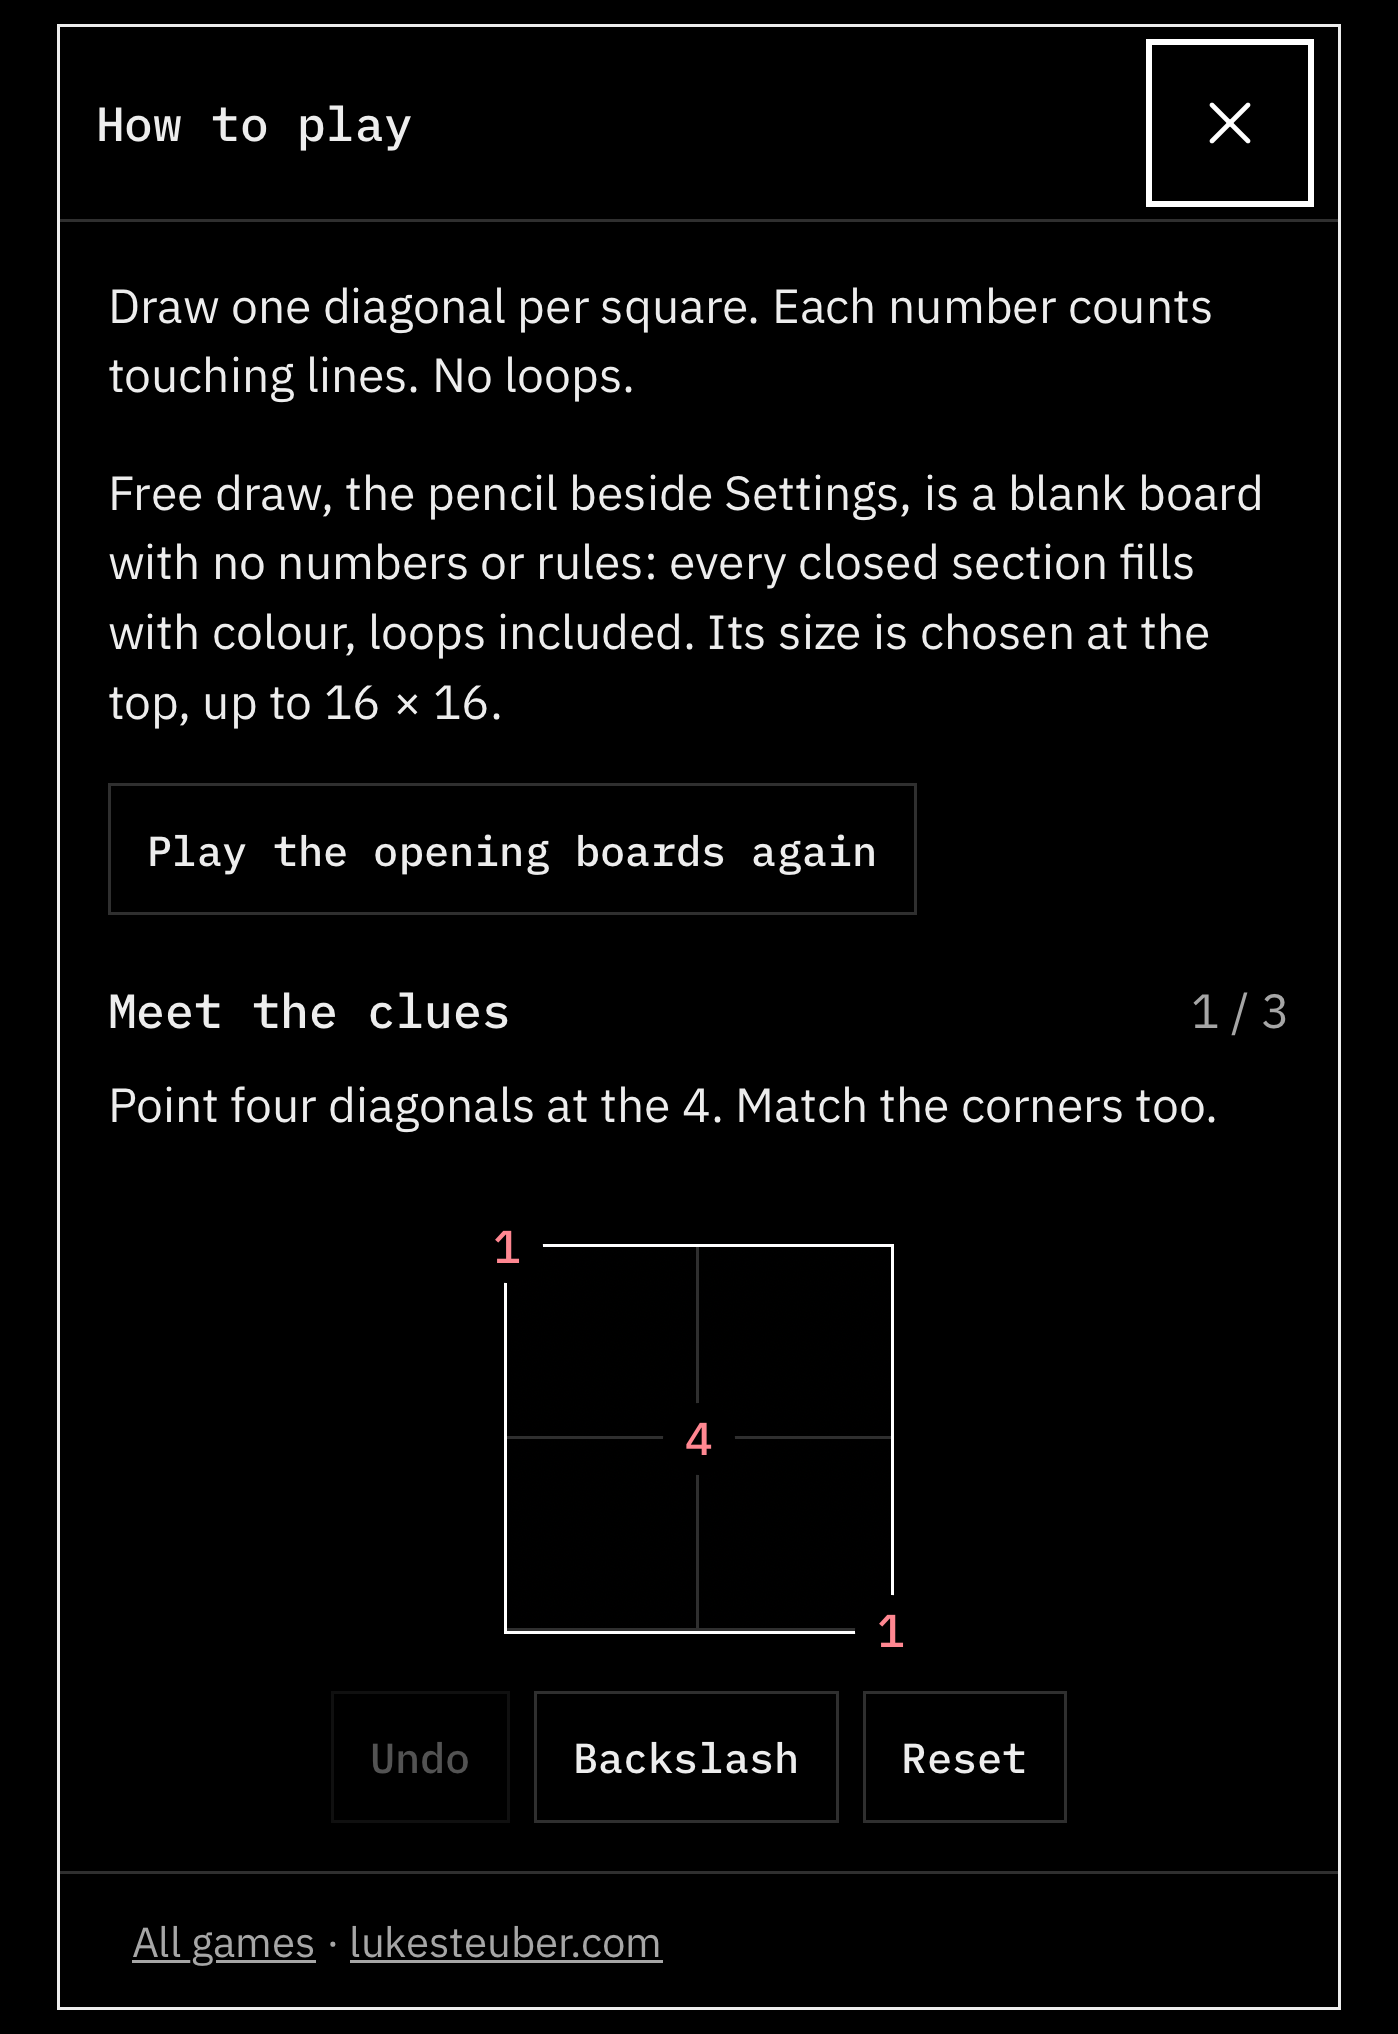
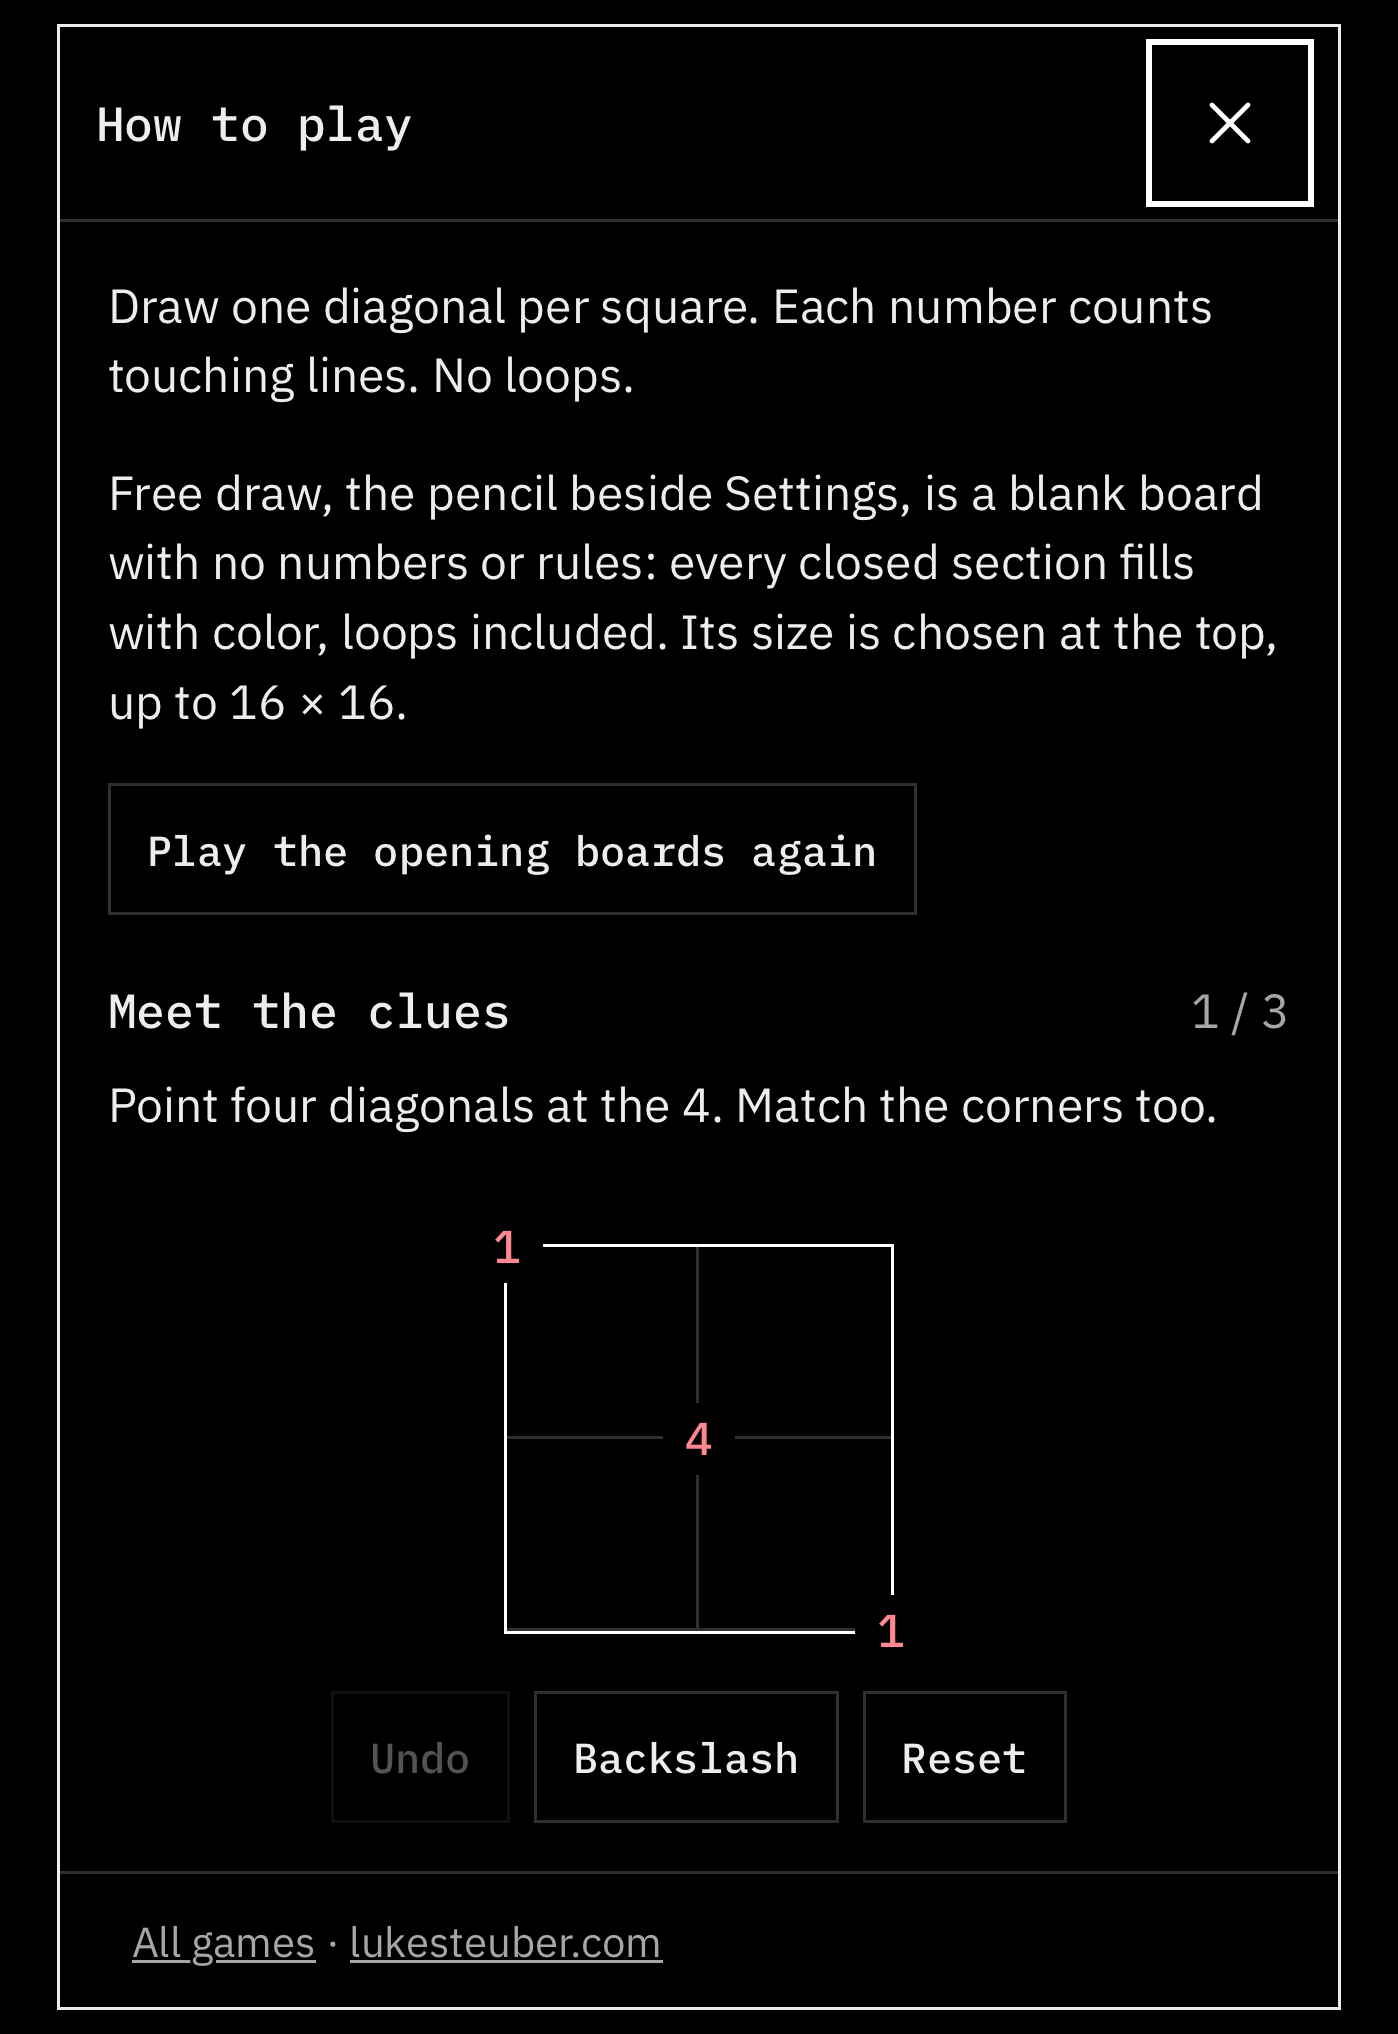
Privacy page live; How to play screenshots retaken with American spelling
smoke.sh now fails on "colour" in the payload instead of warning.

Changed region(s): [[0.4306, 0.2788, 0.892, 0.3407], [0.0923, 0.3097, 0.3999, 0.3717]]

diff --git a/app/app-store/privacy.html b/app/app-store/privacy.html
@@ -5,7 +5,7 @@
 <meta name="viewport" content="width=device-width, initial-scale=1">
 <meta name="color-scheme" content="light dark">
 <title>Slant Privacy Policy</title>
-<!-- For the iPhone, iPad and Android apps. Proposed home: https://lukesteuber.com/games/slant/privacy.html (not published yet). It loads no analytics script. -->
+<!-- Served at https://lukesteuber.com/games/slant/privacy.html (source: game-riffs slant/privacy.html) for the iPhone, iPad and Android apps. It loads no analytics script. -->
 <style>
   body { max-width: 680px; margin: 0 auto; padding: 48px 22px 80px; font: 16px/1.6 system-ui, -apple-system, sans-serif; background: #fff; color: #111; }
   h1 { font-size: 2rem; line-height: 1.15; margin-bottom: .25em; }

diff --git a/app/docs/RELEASE.md b/app/docs/RELEASE.md
@@ -21,13 +21,11 @@ signing steps run from Luke's own Terminal.
 
 1. ~~Luke confirms the id.~~ Done 2026-11-14 ("Yes, use it"). The sign
    script's PROPOSED gate now passes.
-2. **Privacy page.** `app-store/privacy.html` has to be live before either
-   store accepts the listing. Proposed home:
-   `https://lukesteuber.com/games/slant/privacy.html` (add it to game-riffs
-   `slant/`, or copy it onto Drummer). Luke's OK first.
-3. **Spelling fix.** game-riffs PR 161 changes the game's three "colour" strings
-   to "color". After it merges: `tools/sync-from-game-riffs.sh <merge commit>`,
-   re-export, retake the How to play screenshots (`04-*`).
+2. ~~Privacy page.~~ Live at `https://lukesteuber.com/games/slant/privacy.html`
+   since 2026-11-14 (game-riffs PR 164; web release `slant-privacy-ff6f321` on
+   Drummer, with `rollback.sh` beside it).
+3. ~~Spelling fix.~~ game-riffs PR 161 merged; the app is synced at ff6f321 and
+   the How to play screenshots were retaken.
 4. Optional: tell the Minimal Primitives release session which game commit
    this app ships, so the two stay in step.
 

diff --git a/app/app-store/PRIVACY.md b/app/app-store/PRIVACY.md
@@ -37,7 +37,7 @@ What to enter in App Store Connect and the Google Play Console for Slant
 |---|---|
 | App Privacy: data collection | **Data Not Collected** |
 | Tracking | No |
-| Privacy policy URL | Proposed `https://lukesteuber.com/games/slant/privacy.html`. **Not live yet**: the page is `app-store/privacy.html`; publishing it (into game-riffs `slant/` or straight onto Drummer) waits for Luke's OK |
+| Privacy policy URL | `https://lukesteuber.com/games/slant/privacy.html` (live since 2026-11-14; source game-riffs `slant/privacy.html` (PR 164), also bundled as `www/privacy.html`; `app-store/privacy.html` is the same text) |
 | Export compliance | Uses no non-exempt encryption (`ITSAppUsesNonExemptEncryption` = NO is already in `Info.plist`) |
 | Age rating | Every content question **None** / **No**; Unrestricted Web Access **No** (links open Safari, there is no in-app browser); Social media (`ageRatingDeclarations.socialMedia`) **No**; Gambling, contests, user-generated content **No**. Expected result 4+ |
 | Category | Games → Puzzle (secondary: Games → Board, optional) |
